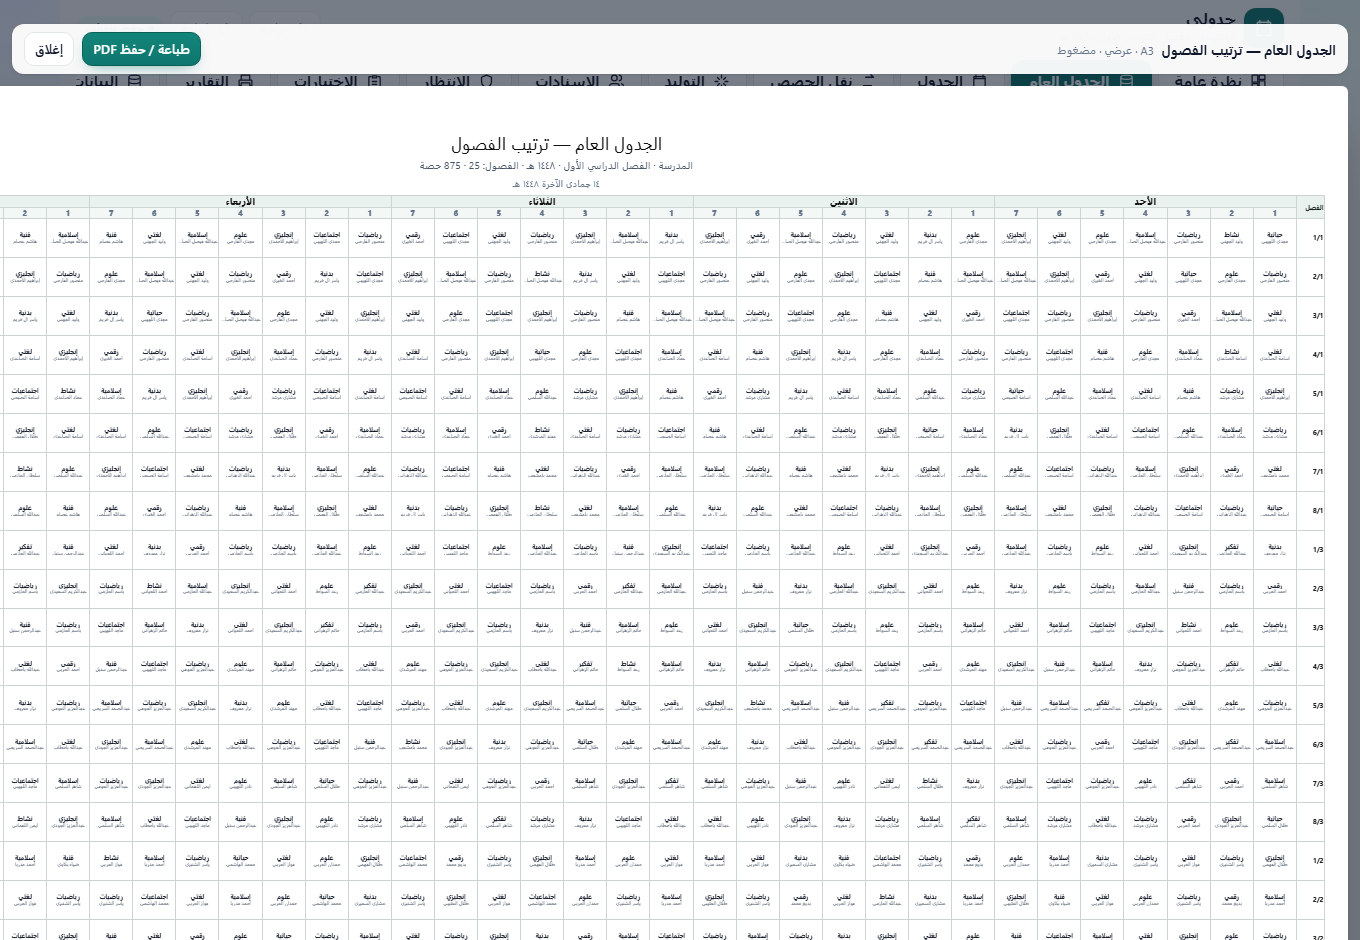
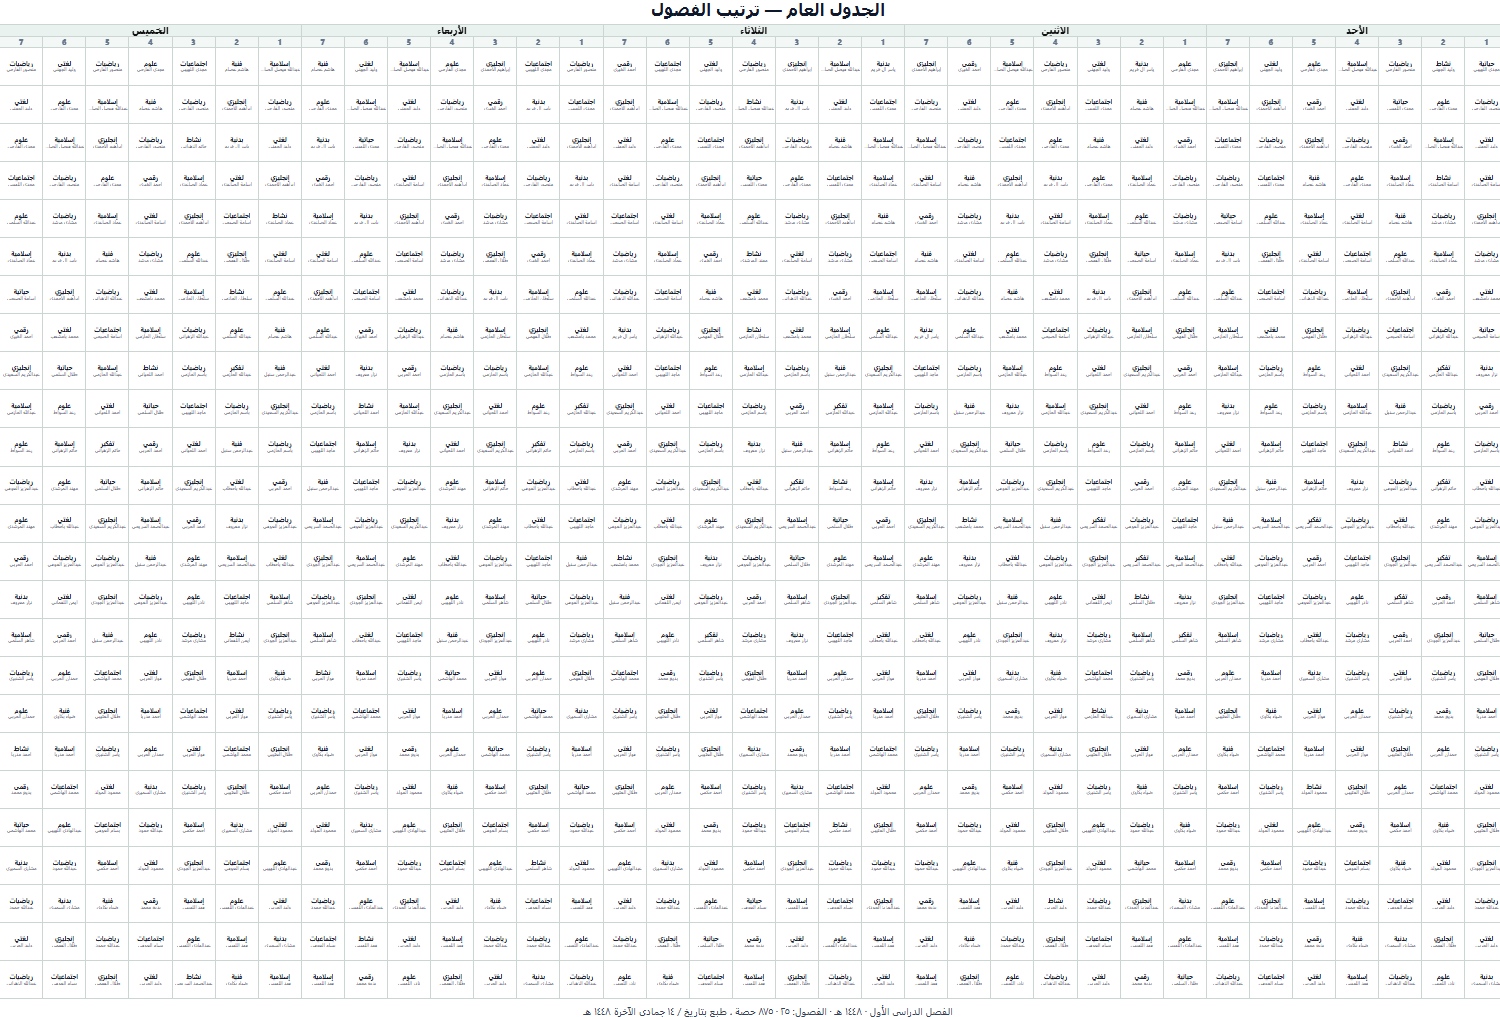
الجدول العام: هامش سفلي 12مم ونقل بيانات التقرير إلى سطر واحد أسفل الجدول

Changed region(s): [[0.0, 0.0, 1.0, 1.0]]

diff --git a/src/components/PrintSheets.tsx b/src/components/PrintSheets.tsx
@@ -1,7 +1,7 @@
 import type { Cover, SchoolData } from '../types';
 import { DAY_NAMES, className, lessonTeacherId, subjectName, teacherMetrics, teacherName, validate } from '../lib/model';
 import { hijri, numberAr, periodTimes, today } from '../lib/utils';
-import { FitToPage, MasterTable, masterSubtitle, masterTitle, type MasterMode } from './MasterTable';
+import { FitToPage, MasterTable, masterTitle, type MasterMode } from './MasterTable';
 
 export function SheetHead({ title, subtitle }: { title: string; subtitle?: string }) {
   return (
@@ -13,12 +13,20 @@ export function SheetHead({ title, subtitle }: { title: string; subtitle?: strin
   );
 }
 
-/** الجدول العام: كل المعلمين (A3 طولية) أو كل الفصول (A3 عرضية) في صفحة واحدة. */
+/** الجدول العام: العنوان أعلى، بيانات التقرير في سطر واحد أسفل الجدول. */
 export function MasterSheet({ data, mode, query = '' }: { data: SchoolData; mode: MasterMode; query?: string }) {
+  const scope =
+    mode === 'teacher'
+      ? `المعلمون: ${numberAr(data.teachers.length)}`
+      : `الفصول: ${numberAr(data.classes.length)}`;
+  const footer = `${data.term} · ${scope} · ${numberAr(data.lessons.length)} حصة ، طبع بتاريخ / ${hijri(today())}`;
   return (
     <FitToPage orientation={mode === 'teacher' ? 'portrait' : 'landscape'}>
-      <SheetHead title={masterTitle(mode)} subtitle={masterSubtitle(data, mode)} />
+      <header className="master-print-head">
+        <h1>{masterTitle(mode)}</h1>
+      </header>
       <MasterTable data={data} mode={mode} query={query} print />
+      <p className="master-print-footer">{footer}</p>
     </FitToPage>
   );
 }

diff --git a/src/styles.css b/src/styles.css
@@ -234,6 +234,24 @@ body {
   padding: 0.5px 1px;
 }
 
+.master-print-head h1 {
+  margin: 0 0 1.5mm;
+  text-align: center;
+  font-size: 18px;
+  font-weight: 800;
+  color: #0f172a;
+  line-height: 1.1;
+}
+
+.master-print-footer {
+  margin: 1.5mm 0 0;
+  text-align: center;
+  font-size: 10.5px;
+  color: #334155;
+  white-space: nowrap;
+  line-height: 1.2;
+}
+
 @media print {
   .print-sheet[data-compact='true'] .master-print table {
     font-size: 7px;
@@ -571,7 +589,7 @@ body {
 
 @media screen {
   .print-sheet[data-edge='true'] {
-    padding: 12mm 6mm 0 6mm;
+    padding: 12mm 6mm 12mm 6mm;
     overflow: hidden;
   }
 
@@ -654,12 +672,12 @@ body {
 
   @page p-a3 {
     size: A3 portrait;
-    margin: 12mm 6mm 0 6mm;
+    margin: 12mm 6mm 12mm 6mm;
   }
 
   @page l-a3 {
     size: A3 landscape;
-    margin: 12mm 6mm 0 6mm;
+    margin: 12mm 6mm 12mm 6mm;
   }
 
   @page public-landscape {
@@ -721,6 +739,8 @@ body {
     font-size: 11px;
   }
 }
+
+
 
 
 

diff --git a/src/components/MasterTable.tsx b/src/components/MasterTable.tsx
@@ -188,7 +188,7 @@ export function masterSubtitle(data: SchoolData, mode: MasterMode): string {
  * بهوامش 4مم، عبر ضبط zoom حسب القياس الفعلي للجدول.
  */
 /** هوامش صفحة الجدول العام بالمليمتر (تطابق CSS @page). */
-export const MASTER_MARGINS = { top: 12, right: 6, bottom: 0, left: 6 };
+export const MASTER_MARGINS = { top: 12, right: 6, bottom: 12, left: 6 };
 
 export function FitToPage({ orientation, children }: { orientation: 'portrait' | 'landscape'; children: ReactNode }) {
   const outerRef = useRef<HTMLDivElement>(null);
